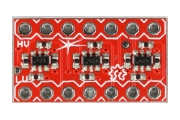
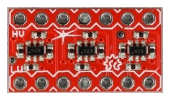
updated readme and photos

diff --git a/README.md b/README.md
@@ -3,8 +3,9 @@ Logic Level Shifters in different configurations.
 
 For further information about the bidirectional operation have a look on the following application notes: [Phillips AN97055](https://cdn-shop.adafruit.com/datasheets/an97055.pdf), [NXP AN10441](http://www.nxp.com/documents/application_note/AN10441.pdf)
 
-![Level-Shifter](https://github.com/watterott/Level-Shifter/raw/master/hardware/Level-Shifter-4_v10.jpg)
-![Level-Shifter](https://github.com/watterott/Level-Shifter/raw/master/hardware/Level-Shifter-6_v10.jpg)
+![Level-Shifter 4](https://github.com/watterott/Level-Shifter/raw/master/hardware/Level-Shifter-4_v11.jpg)
+![Level-Shifter 6](https://github.com/watterott/Level-Shifter/raw/master/hardware/Level-Shifter-6_v10.jpg)
+![Level-Shifter 8](https://github.com/watterott/Level-Shifter/raw/master/hardware/Level-Shifter-74244_v10.jpg)
 
 
 ## Shop
